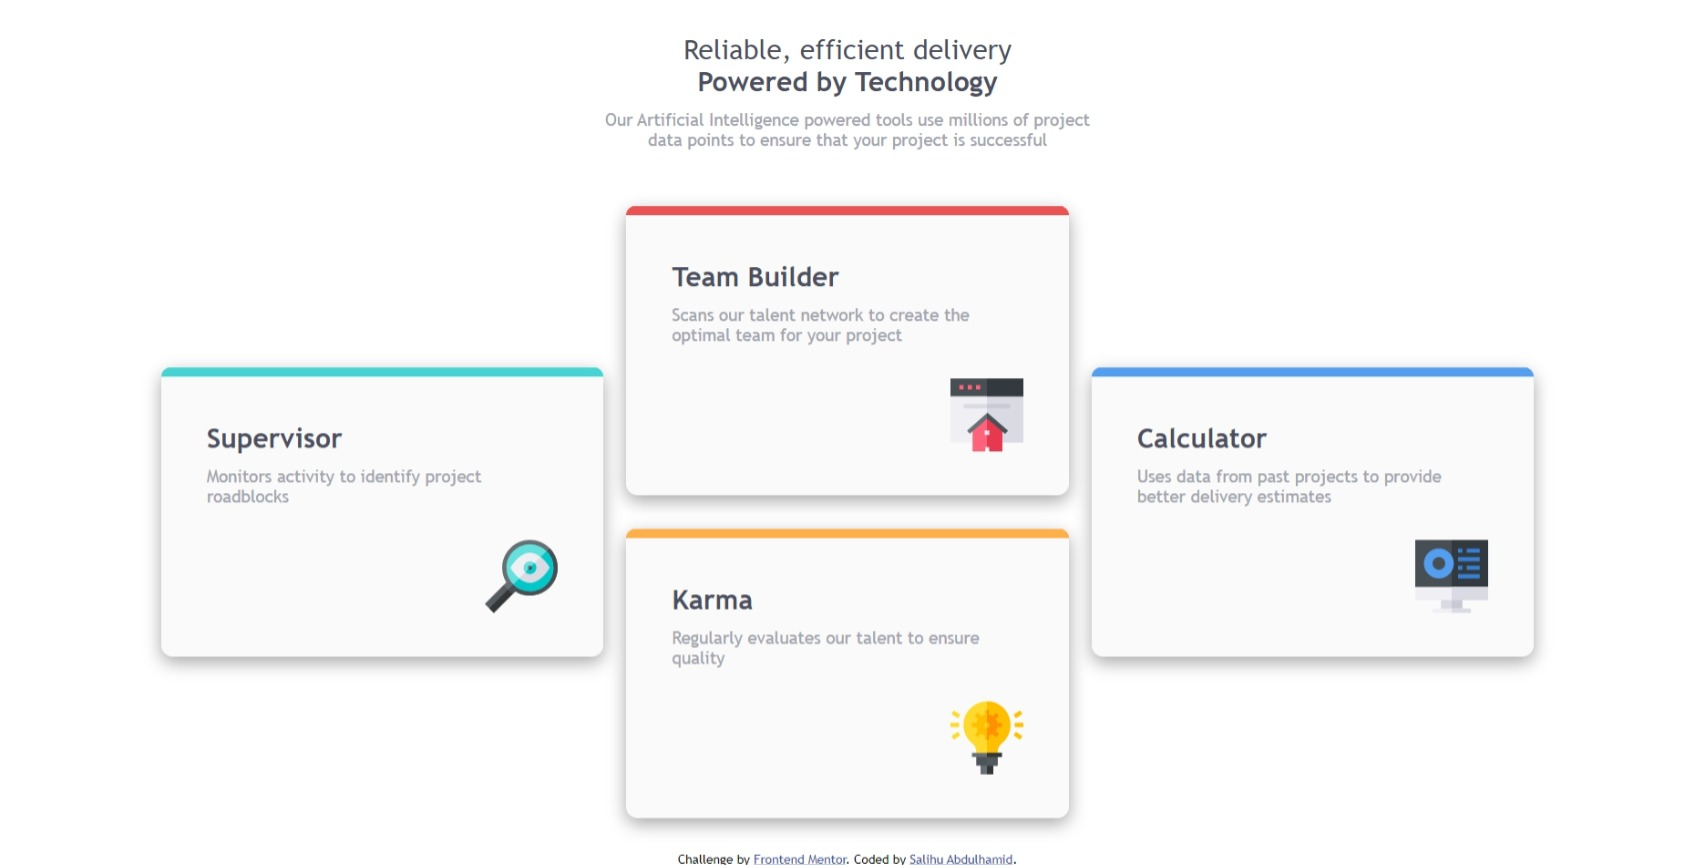
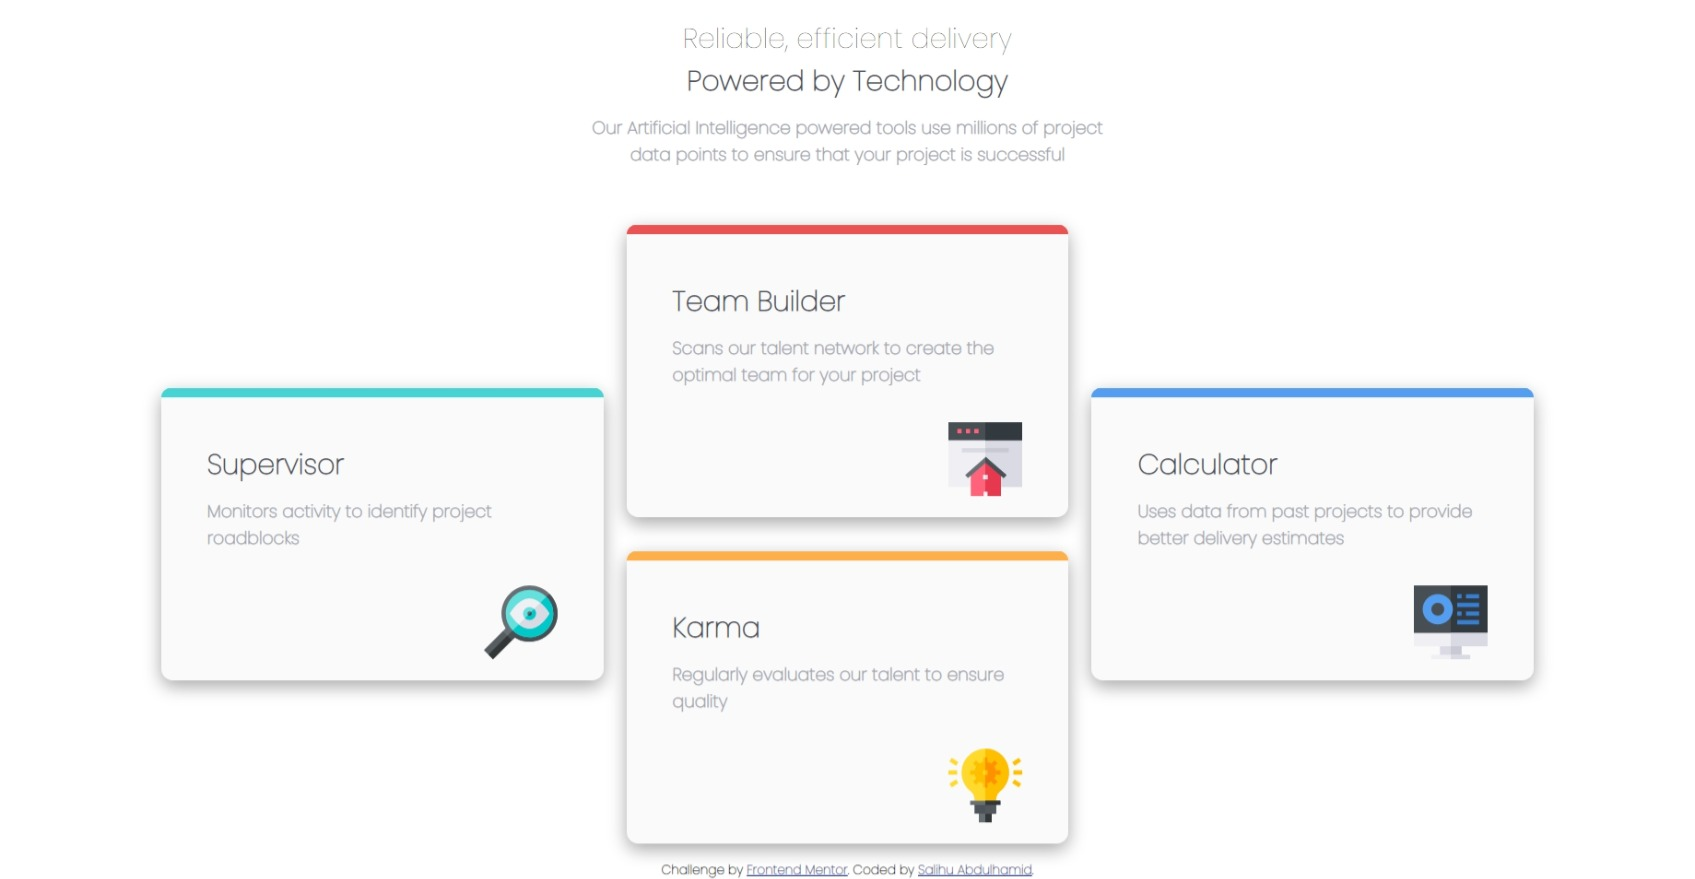
Add files via upload

diff --git a/styles.css b/styles.css
@@ -1,3 +1,5 @@
+@import url("https://fonts.googleapis.com/css2?family=Poppins:wght@100&display=swap");
+
 .attribution {
   font-size: 11px;
   text-align: center;
@@ -14,6 +16,8 @@
 
 body {
   max-width: 100%;
+  font-family: "Poppins", sans-serif;
+  font-weight: 600;
 }
 
 main {
@@ -26,20 +30,17 @@ main {
 section {
   width: 90%;
   min-height: calc(90vh - 12.8px);
-
 }
 
 .heading {
   color: hsl(234, 12%, 34%);
   font-weight: 200;
   text-align: center;
-  font-family: Poppins;
 }
 
 .heading1 {
   color: hsl(234, 12%, 34%);
   text-align: center;
-  font-family: Poppins;
 }
 
 .paragraph {
@@ -89,7 +90,6 @@ section {
 
 .heading-content {
   color: hsl(234, 12%, 34%);
-  font-family: Poppins;
 }
 
 .supervisor {

diff --git a/index.html b/index.html
@@ -12,7 +12,7 @@
       href="./images/favicon-32x32.png"
     />
     <link rel="stylesheet" type="text/css" href="./styles.css" />
-    <link rel="stylesheet" href="https://fonts.google.com/specimen/Poppins" />
+
 
     <title>Frontend Mentor | Four card feature section</title>
   </head>
